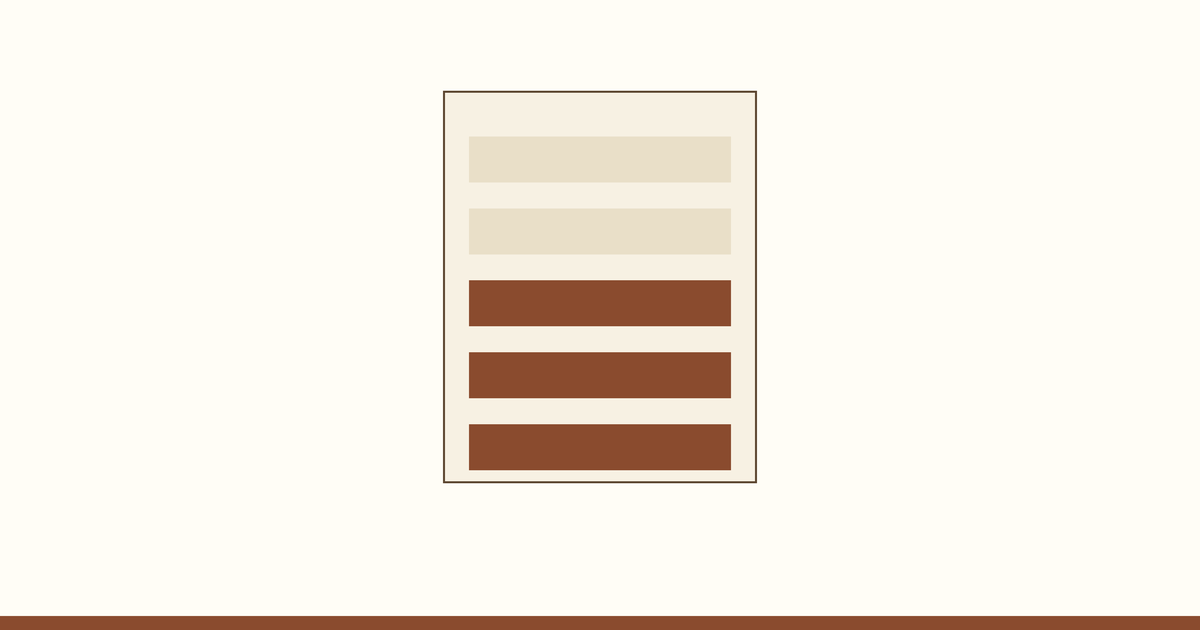
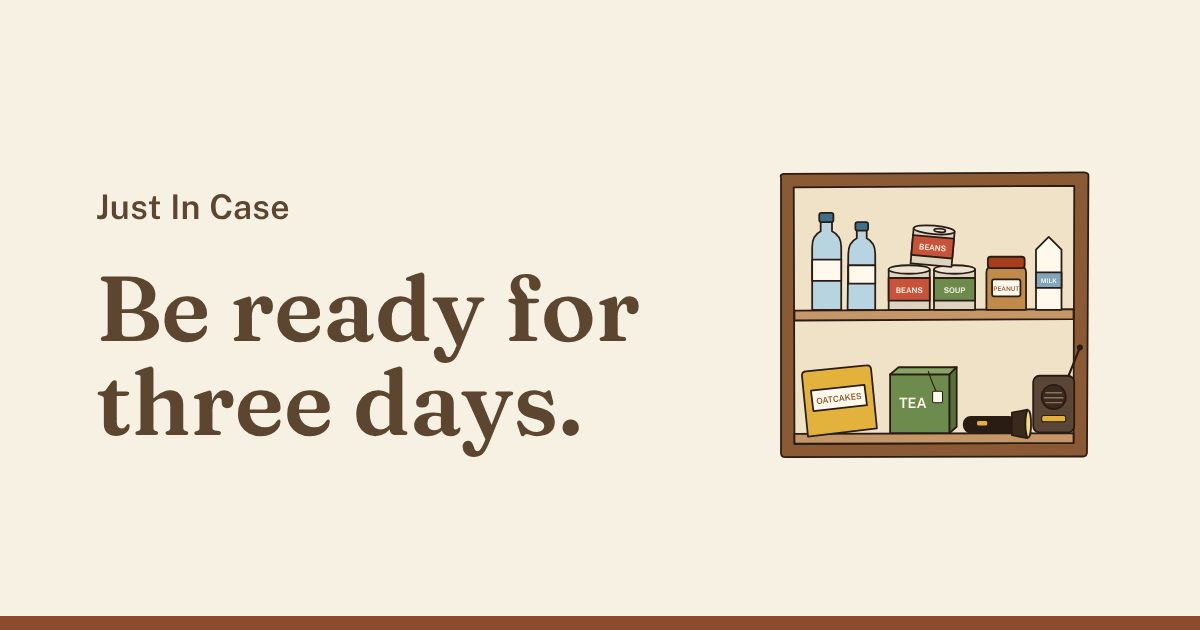
fix: October fix batch (links, metadata, colour, type, motion, share image)
- Changelog: 24 October 2026 entry; last checked October 2026.
- "Build-up schedule" links in the when-it's-over guide now open
  /planner?tier=month#build-up-schedule, which shows the schedule.
- Site metadata: drop "Emergency Food Calculator" and "Amazon-linked
  shopping routes"; use the front page's description.
- Home page: site name is a <p>, so the <h1> is the first heading.
- Main button is a single link (no <button> inside <Link>); looks and
  sits exactly as before.
- --accent is now #F2E9D6, so hovers show.
- Load Public Sans 600 so semibold text isn't faked.
- Home icons use the brand colour (#8A4B2E) instead of #A63D1C.
- theme-color #F7F1E3.
- prefers-reduced-motion: no smooth scrolling or animation.
- New og-image.png on the paper colour with the existing headline.

Claude-Session: https://claude.ai/code/session_01KzzD2P5ZiCavfVf2iTn7Lg

diff --git a/src/app/page.tsx b/src/app/page.tsx
@@ -26,33 +26,33 @@ const ESSENTIALS = [
 function EssentialsIcon({ id }: { id: string }) {
   const icons: Record<string, React.ReactNode> = {
     water: (
-      <svg width="30" height="30" viewBox="0 0 24 24" fill="none" stroke="#A63D1C" strokeWidth="2" strokeLinecap="round" strokeLinejoin="round" style={{ flexShrink: 0, marginTop: 2 }}>
+      <svg width="30" height="30" viewBox="0 0 24 24" fill="none" stroke="var(--brand)" strokeWidth="2" strokeLinecap="round" strokeLinejoin="round" style={{ flexShrink: 0, marginTop: 2 }}>
         <path d="M12 3c3 4 6 7.5 6 11a6 6 0 0 1-12 0c0-3.5 3-7 6-11z" />
       </svg>
     ),
     food: (
-      <svg width="30" height="30" viewBox="0 0 24 24" fill="none" stroke="#A63D1C" strokeWidth="2" strokeLinecap="round" strokeLinejoin="round" style={{ flexShrink: 0, marginTop: 2 }}>
+      <svg width="30" height="30" viewBox="0 0 24 24" fill="none" stroke="var(--brand)" strokeWidth="2" strokeLinecap="round" strokeLinejoin="round" style={{ flexShrink: 0, marginTop: 2 }}>
         <ellipse cx="12" cy="6" rx="7" ry="2.5" />
         <path d="M5 6v12c0 1.4 3.1 2.5 7 2.5s7-1.1 7-2.5V6" />
         <path d="M5 10.5c0 1.4 3.1 2.5 7 2.5s7-1.1 7-2.5" />
       </svg>
     ),
     light: (
-      <svg width="30" height="30" viewBox="0 0 24 24" fill="none" stroke="#A63D1C" strokeWidth="2" strokeLinecap="round" strokeLinejoin="round" style={{ flexShrink: 0, marginTop: 2 }}>
+      <svg width="30" height="30" viewBox="0 0 24 24" fill="none" stroke="var(--brand)" strokeWidth="2" strokeLinecap="round" strokeLinejoin="round" style={{ flexShrink: 0, marginTop: 2 }}>
         <path d="M9 21h6" />
         <path d="M10 17h4" />
         <path d="M12 3a6 6 0 0 0-3.5 10.9c.6.5 1 1.3 1 2.1h5c0-.8.4-1.6 1-2.1A6 6 0 0 0 12 3z" />
       </svg>
     ),
     warmth: (
-      <svg width="30" height="30" viewBox="0 0 24 24" fill="none" stroke="#A63D1C" strokeWidth="2" strokeLinecap="round" strokeLinejoin="round" style={{ flexShrink: 0, marginTop: 2 }}>
+      <svg width="30" height="30" viewBox="0 0 24 24" fill="none" stroke="var(--brand)" strokeWidth="2" strokeLinecap="round" strokeLinejoin="round" style={{ flexShrink: 0, marginTop: 2 }}>
         <path d="M4 7h16v11H4z" />
         <path d="M4 11h16" />
         <path d="M8 7V5h8v2" />
       </svg>
     ),
     news: (
-      <svg width="30" height="30" viewBox="0 0 24 24" fill="none" stroke="#A63D1C" strokeWidth="2" strokeLinecap="round" strokeLinejoin="round" style={{ flexShrink: 0, marginTop: 2 }}>
+      <svg width="30" height="30" viewBox="0 0 24 24" fill="none" stroke="var(--brand)" strokeWidth="2" strokeLinecap="round" strokeLinejoin="round" style={{ flexShrink: 0, marginTop: 2 }}>
         <rect x="3" y="9" width="18" height="11" rx="2" />
         <circle cx="9" cy="14.5" r="2.5" />
         <path d="M15 13h3" />
@@ -61,7 +61,7 @@ function EssentialsIcon({ id }: { id: string }) {
       </svg>
     ),
     other: (
-      <svg width="30" height="30" viewBox="0 0 24 24" fill="none" stroke="#A63D1C" strokeWidth="2" strokeLinecap="round" strokeLinejoin="round" style={{ flexShrink: 0, marginTop: 2 }}>
+      <svg width="30" height="30" viewBox="0 0 24 24" fill="none" stroke="var(--brand)" strokeWidth="2" strokeLinecap="round" strokeLinejoin="round" style={{ flexShrink: 0, marginTop: 2 }}>
         <path d="M12 5v14" />
         <path d="M5 12h14" />
       </svg>
@@ -76,9 +76,9 @@ export default function HomePage() {
       <div className="mx-auto max-w-[1120px] px-4 py-8 sm:px-6 lg:px-8">
         {/* Header */}
         <header className="mb-10">
-          <h2 className="mt-2 text-3xl font-semibold text-[var(--brand-dark)] font-serif tracking-tight">
+          <p className="mt-2 text-3xl font-semibold text-[var(--brand-dark)] font-serif tracking-tight">
             Just In Case
-          </h2>
+          </p>
           <nav className="mt-3 flex flex-wrap gap-4 text-sm text-[var(--brand)]">
             <Link
               href="/planner"
@@ -127,12 +127,13 @@ export default function HomePage() {
             </section>
 
             {/* Main button */}
-            <Link href="/planner?tier=weekend">
-              <button
-                className="w-full sm:w-auto h-[60px] bg-[var(--brand)] text-white px-8 rounded-full font-medium text-[21px] hover:bg-[var(--brand-dark)] transition-colors focus:outline-none focus:ring-2 focus:ring-[var(--brand)] focus:ring-offset-2 focus:ring-offset-[var(--background)]"
-              >
-                Show me what I need &rarr;
-              </button>
+            {/* mb-0 keeps the supporting line tight under the button, exactly as
+                when the button sat inside an inline link. */}
+            <Link
+              href="/planner?tier=weekend"
+              className="mb-0 flex sm:inline-flex w-full sm:w-auto h-[60px] items-center justify-center bg-[var(--brand)] text-white px-8 rounded-full font-medium text-[21px] hover:bg-[var(--brand-dark)] transition-colors focus:outline-none focus:ring-2 focus:ring-[var(--brand)] focus:ring-offset-2 focus:ring-offset-[var(--background)]"
+            >
+              Show me what I need &rarr;
             </Link>
 
             {/* Supporting line */}

diff --git a/src/app/layout.tsx b/src/app/layout.tsx
@@ -1,4 +1,4 @@
-import type { Metadata } from "next";
+import type { Metadata, Viewport } from "next";
 import { Fraunces, Public_Sans } from "next/font/google";
 import "./globals.css";
 
@@ -11,19 +11,19 @@ const fraunces = Fraunces({
 const publicSans = Public_Sans({
   subsets: ["latin"],
   variable: "--font-public-sans",
-  weight: ["400", "500"],
+  weight: ["400", "500", "600"],
 });
 
 export const metadata: Metadata = {
   metadataBase: new URL("https://justincase.scot"),
-  title: "Just In Case — Emergency Food Calculator for UK Households",
+  title: "Just In Case",
   description:
-    "Calculate how much long-life food your UK household can buy within budget, with shelf-stable categories, calories, storage estimates, and Amazon-linked shopping routes.",
+    "See what your household needs for three days without shops, power or water, then get a shopping list of what's missing.",
   alternates: { canonical: "https://justincase.scot/" },
   openGraph: {
-    title: "Just In Case — Emergency Food Calculator for UK Households",
+    title: "Just In Case",
     description:
-      "A free UK just-in-case pantry calculator for long-life food, budget reality, storage space, and printable shopping lists.",
+      "See what your household needs for three days without shops, power or water, then get a shopping list of what's missing.",
     url: "https://justincase.scot/",
     type: "website",
     siteName: "Just In Case",
@@ -32,10 +32,14 @@ export const metadata: Metadata = {
         url: "/og-image.png",
         width: 1200,
         height: 630,
-        alt: "Just In Case — a cupboard stocked for a UK emergency pantry",
+        alt: "Be ready for three days. Just In Case",
       },
     ],
   },
+};
+
+export const viewport: Viewport = {
+  themeColor: "#F7F1E3",
 };
 
 export default function RootLayout({

diff --git a/src/components/pantry-planner.tsx b/src/components/pantry-planner.tsx
@@ -251,6 +251,22 @@ export function PantryPlanner({ initialTier, embedded = false }: { initialTier?:
   const [floorMode, setFloorMode] = useState(false);
   const [scheduleMode, setScheduleMode] = useState(false);
 
+  // Links to /planner?tier=…#build-up-schedule (e.g. from the guides) open
+  // the schedule straight away rather than leaving it behind its button.
+  useEffect(() => {
+    const openFromHash = () => {
+      if (window.location.hash !== "#build-up-schedule") return;
+      setScheduleMode(true);
+      document.getElementById("build-up-schedule")?.scrollIntoView();
+    };
+    const frame = requestAnimationFrame(openFromHash);
+    window.addEventListener("hashchange", openFromHash);
+    return () => {
+      cancelAnimationFrame(frame);
+      window.removeEventListener("hashchange", openFromHash);
+    };
+  }, []);
+
   const result = useMemo(
     () =>
       buildPlan(
@@ -1372,7 +1388,7 @@ export function PantryPlanner({ initialTier, embedded = false }: { initialTier?:
               </p>
             </section>
 
-            <div className="no-print flex justify-center gap-3 pt-2">
+            <div id="build-up-schedule" className="no-print flex justify-center gap-3 pt-2 scroll-mt-4">
               <button
                 type="button"
                 onClick={() => setScheduleMode((c) => !c)}

diff --git a/src/app/guides/when-its-over/page.tsx b/src/app/guides/when-its-over/page.tsx
@@ -254,7 +254,7 @@ export default function Page() {
 
           <p>
             Write the answers on the back of your{" "}
-            <Link href="/" className="text-[var(--brand)] underline">
+            <Link href="/planner?tier=month#build-up-schedule" className="text-[var(--brand)] underline">
               build-up schedule
             </Link>
             , or on anything you will find again, and pin it inside the cupboard door. We
@@ -281,7 +281,7 @@ export default function Page() {
           </p>
           <p>
             Start this week. If you already have a{" "}
-            <Link href="/" className="text-[var(--brand)] underline">
+            <Link href="/planner?tier=month#build-up-schedule" className="text-[var(--brand)] underline">
               build-up schedule
             </Link>
             , rotate from that. If you do not &mdash; and if this was your first
@@ -291,7 +291,7 @@ export default function Page() {
           </p>
           <p>
             If you want it laid out week by week from there, the{" "}
-            <Link href="/" className="text-[var(--brand)] underline">
+            <Link href="/planner?tier=month#build-up-schedule" className="text-[var(--brand)] underline">
               build-up schedule
             </Link>{" "}
             does exactly this, and you can print it.

diff --git a/src/components/three-day-planner.tsx b/src/components/three-day-planner.tsx
@@ -4,6 +4,7 @@ import { useMemo, useState } from "react";
 import Link from "next/link";
 import foods from "../../data/foods.json";
 import { printOnly } from "@/lib/print";
+import { scrollBehavior } from "@/lib/motion";
 import type { DietaryFlags, FoodItem } from "@/lib/planner";
 import {
   DEFAULT_HOUSEHOLD,
@@ -215,7 +216,7 @@ export function ThreeDayPlanner({
 
   const openLonger = () => {
     setLongerOpen(true);
-    requestAnimationFrame(() => document.getElementById("longer-stores")?.scrollIntoView({ behavior: "smooth" }));
+    requestAnimationFrame(() => document.getElementById("longer-stores")?.scrollIntoView({ behavior: scrollBehavior() }));
   };
 
   const linkClass = "inline-flex min-h-11 items-center text-[var(--brand)] underline underline-offset-2 hover:text-[var(--brand-dark)] transition-colors";

diff --git a/src/app/globals.css b/src/app/globals.css
@@ -17,7 +17,7 @@
   --strong-border: #A88F63;
   --brand: #8A4B2E;
   --brand-dark: #5C4630;
-  --accent: #FFFDF6;
+  --accent: #F2E9D6;
   --success: #2F4A24;
   --warning-bg: #FFF6E9;
   --warning-border: #E0C79A;
@@ -169,5 +169,22 @@ input[type="range"] {
 
   html[data-print="longer"] .print-three-day {
     display: none !important;
+  }
+}
+
+/* ── Reduced motion: no smooth scrolling or animation ── */
+
+@media (prefers-reduced-motion: reduce) {
+  html {
+    scroll-behavior: auto;
+  }
+
+  *,
+  *::before,
+  *::after {
+    animation-duration: 0.01ms !important;
+    animation-iteration-count: 1 !important;
+    transition-duration: 0.01ms !important;
+    scroll-behavior: auto !important;
   }
 }

diff --git a/src/app/ready/ready-client.tsx b/src/app/ready/ready-client.tsx
@@ -3,6 +3,7 @@
 
 
 import { useState, useMemo, useEffect, useRef } from 'react';
+import { scrollBehavior } from '@/lib/motion';
 
 /* ── Types ── */
 
@@ -395,7 +396,7 @@ export default function Page() {
   useEffect(() => {
     if (allAnswered && resultsRef.current) {
       setTimeout(() => {
-        resultsRef.current?.scrollIntoView({ behavior: 'smooth', block: 'start' });
+        resultsRef.current?.scrollIntoView({ behavior: scrollBehavior(), block: 'start' });
       }, 100);
     }
   }, [allAnswered]);

diff --git a/src/lib/motion.ts b/src/lib/motion.ts
@@ -1,0 +1,4 @@
+// Smooth scrolling, unless the person has asked their device for less motion.
+export function scrollBehavior(): ScrollBehavior {
+  return window.matchMedia("(prefers-reduced-motion: reduce)").matches ? "auto" : "smooth";
+}
